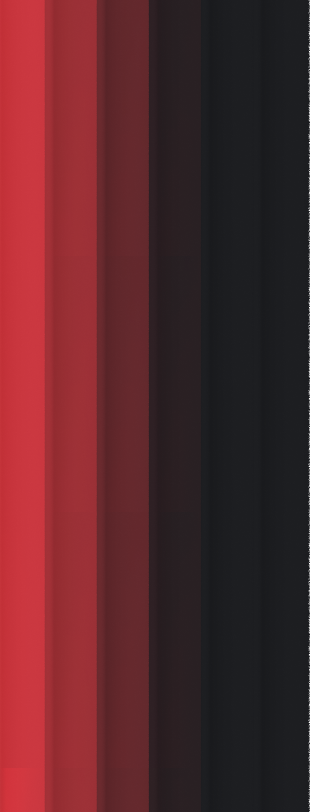
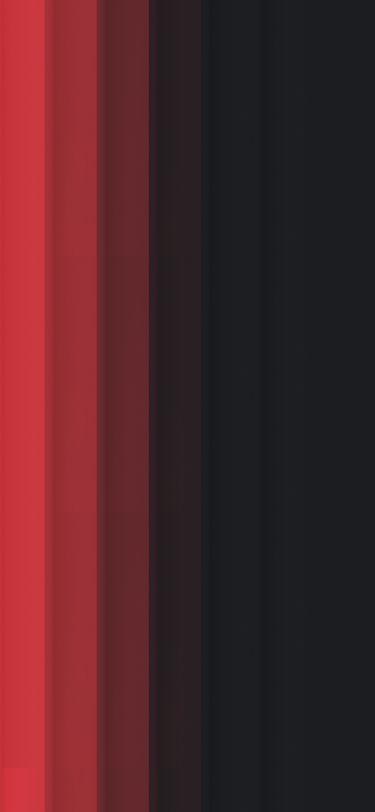
hero-second

diff --git a/src/css/hero.css b/src/css/hero.css
@@ -1,152 +1,115 @@
-.container {
-  max-width: 343px;
+.hero {
+}
+.hero {
+  margin-bottom: 32px;
+}
+
+.hero-container {
   background-image: url(../img/hero/hero-bg-red-mob.png);
   background-size: cover;
   background-position: center center;
-}
-.hero-container {
-  height: 748px;
+  height: 812px;
+  padding: 281px 16px 32px 16px;
   display: flex;
   flex-direction: column;
   justify-content: space-between;
-  padding: 32px 0;
+}
+
+@media screen and (-webkit-min-device-pixel-ratio: 2),
+  (min-resolution: 2dppx),
+  (min-resolution: 192dpi) {
+  .hero-container {
+    background-image: url(../img/hero/hero-bg-red-mob-2x.png);
+  }
+}
+.hero-content {
+
 }
 .hero-title {
-  margin-top: 268px;
   font-weight: 500;
   font-size: 50px;
-  line-height: 100%;
+  line-height: 1;
   letter-spacing: -0.03em;
   text-transform: uppercase;
   color: #fafafa;
+  margin-top: 212px;
 }
 .hero-social {
   display: flex;
-  gap: 4px;
   font-weight: 500;
   font-size: 14px;
   letter-spacing: -0.02em;
   color: #fafafa;
-  margin-bottom: 8px;
-  margin-top: 8px;
 }
-
-.hero-link-ig {
+.hero-social-list {
+  display: flex;
+  gap: 4px;
+}
+.hero-social-item {
+  display: flex;
+  align-items: center;
+  justify-content: center;
   border: 1px solid rgba(250, 250, 250, 0.2);
   border-radius: 60px;
-  padding: 10px 12px;
-  width: 37px;
   height: 37px;
-}
-.hero-link-fb {
-  border: 1px solid rgba(250, 250, 250, 0.2);
-  border-radius: 60px;
-  padding: 10px;
   width: 37px;
-  height: 37px;
 }
-.hero-link-yt {
-  border: 1px solid rgba(250, 250, 250, 0.2);
-  border-radius: 60px;
-  padding: 10px 11px;
-  width: 37px;
-  height: 37px;
-}
-.hero-link-gh {
-  border: 1px solid rgba(250, 250, 250, 0.2);
-  border-radius: 60px;
-  padding: 10px 8px;
-  width: 37px;
-  height: 37px;
-}
-.hero-link-mail {
-  border: 1px solid rgba(250, 250, 250, 0.2);
-  border-radius: 60px;
-  padding: 10px 12px;
+.hero-social-item:last-child {
   width: 178px;
-  height: 37px;
 }
 
 @media screen and (min-width: 768px) {
-  .container {
-    max-width: 704px;
-    background-image: url(../img/hero/hero-bg-red-tablet.png);
+  .hero-container {
+    padding-left: 32px;
+    padding-right: 32px;
   }
   .hero-container {
-    height: 960px;
-  }
-  .hero-title {
-    margin-top: 287px;
-    max-width: 632px;
-    font-size: 90px;
-    color: #fafafa;
-  }
-  .hero-social {
-    font-size: 16px;
-    gap: 8px;
-    margin-bottom: 16px;
-    margin-top: 16px;
-    justify-content: flex-end;
-  }
-  .hero-link-ig {
-    border-radius: 60px;
-    padding: 18px 20px;
-    width: 55px;
-    height: 55px;
-  }
-  .hero-link-fb {
-    border-radius: 60px;
-    padding: 18px 17px;
-    width: 53px;
-    height: 55px;
-  }
-  .hero-link-yt {
-    border-radius: 60px;
-    padding: 18px;
-    width: 55px;
-    height: 55px;
+    background-image: url(../img/hero/hero-bg-red-tablet.png);
+    height: 1024px;
   }
 
-  .hero-link-gh {
-    border-radius: 60px;
-    padding: 18px 16px;
-    width: 55px;
-    height: 55px;
+  @media screen and (-webkit-min-device-pixel-ratio: 2),
+  (min-resolution: 2dppx),
+  (min-resolution: 192dpi) {
+  .hero-container {
+    background-image: url(../img/hero/hero-bg-red-tablet-2x.png);
   }
-  .hero-link-mail {
-    border-radius: 60px;
-    padding: 18px 24px;
-    width: 223px;
-    height: 55px;
-  }
+}
+.hero-title {
+  font-size: 90px;
+  width: 632px;
+}
+.hero-social {
+  font-size: 16px;
+  justify-content: flex-end;
+}
+.hero-social-item {
+  height: 55px;
+  width: 55px;
+}
+.hero-social-item:last-child {
+  width: 223px;
+}
 }
 
 @media screen and (min-width: 1440px) {
-  .container {
-    max-width: 1376px;
-    background-image: url(../img/hero/hero-bg-red-desktop.png);
-  }
   .hero-container {
-    height: 836px;
+    background-image: url(../img/hero/hero-bg-red-desktop.png);
+    height: 900px;
   }
-  .title {
-    display: flex;
-    justify-content: center;
+
+  @media screen and (-webkit-min-device-pixel-ratio: 2),
+  (min-resolution: 2dppx),
+  (min-resolution: 192dpi) {
+  .hero-container {
+    background-image: url(../img/hero/hero-bg-red-desktop-2x.png);
   }
-  .hero-title {
-    margin-top: 300px;
-    max-width: 1084px;
-  }
-  .hero-social {
-  }
-  .hero-link-ig {
-  }
-  .hero-link-fb {
-  }
-  .hero-link-yt {
-  }
-  .hero-link-gh {
-  }
-  .hero-link-mail {
-  }
+}
+.hero-content{
+display: flex;
+justify-content: center;
+}
+.hero-title {
+  width: 1084px;
+}
 }

diff --git a/src/partials/hero.html b/src/partials/hero.html
@@ -1,23 +1,25 @@
-<section class="section">
-  <div class="container">
-    <div class="hero-container">
-      <div class="title">
+<section class="hero">
+  <div class="container hero-container">
+    <div class="hero-content">
+      
       <h1 class="hero-title">Hello.<br>
         I’m Fullstack developer 
         Lloyd Jefferson.</h1>
-      </div>
-        <div>
-        <ul class="hero-social">
-          <li><a class="hero-link-ig" href="https://www.instagram.com/goitclub/">IG</a></li>
-          <li><a class="hero-link-fb" href="https://www.facebook.com/goITclub/">FB</a></li>
-          <li><a class="hero-link-yt" href="https://www.youtube.com/c/GoIT">YT</a></li>
-          <li><a class="hero-link-gh" href="https://github.com/olha-bezklepchenko/project_JS-TechAchievers">GH</a></li>
-          <li>
-            <a class="hero-link-mail" href="mailto:lloydjefferson@gmail.com"
-              >lloydjefferson@gmail.com</a
-            >
-          </li>
-        </ul>
-      </div>
+      
+        
+  </div>
+  <div class="hero-social">
+    <ul class="hero-social-list">
+      <li class="hero-social-item"><a class="hero-link"  target="_blank" rel="nofollow noopener noreferrer" href="https://www.instagram.com/goitclub/">IG</a></li>
+      <li class="hero-social-item"><a class="hero-link" target="_blank" rel="nofollow noopener noreferrer" href="https://www.facebook.com/goITclub/">FB</a></li>
+      <li class="hero-social-item"><a class="hero-link" target="_blank" rel="nofollow noopener noreferrer" href="https://www.youtube.com/c/GoIT">YT</a></li>
+      <li class="hero-social-item"><a class="hero-link" target="_blank" rel="nofollow noopener noreferrer" href="https://github.com/olha-bezklepchenko/project_JS-TechAchievers">GH</a></li>
+      <li class="hero-social-item">
+        <a class="hero-link-mail" href="mailto:lloydjefferson@gmail.com"
+          >lloydjefferson@gmail.com</a
+        >
+      </li>
+    </ul>
+  </div>
   </div>
 </section>
